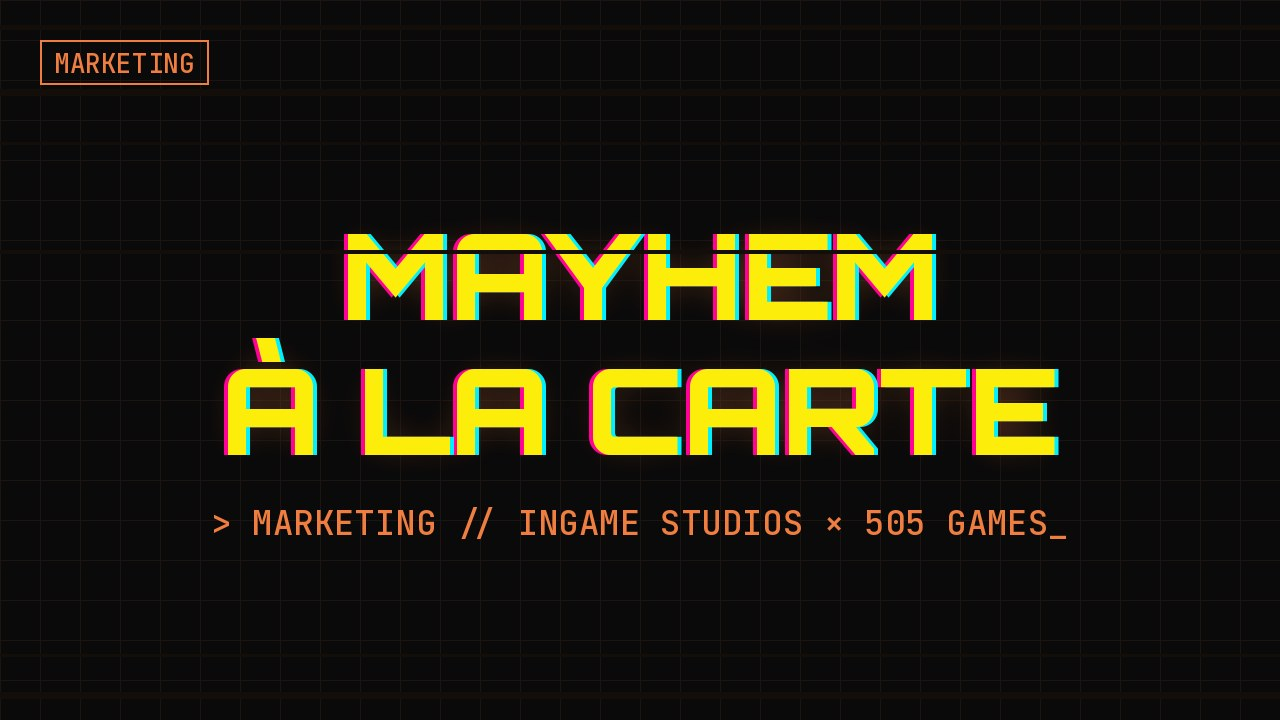
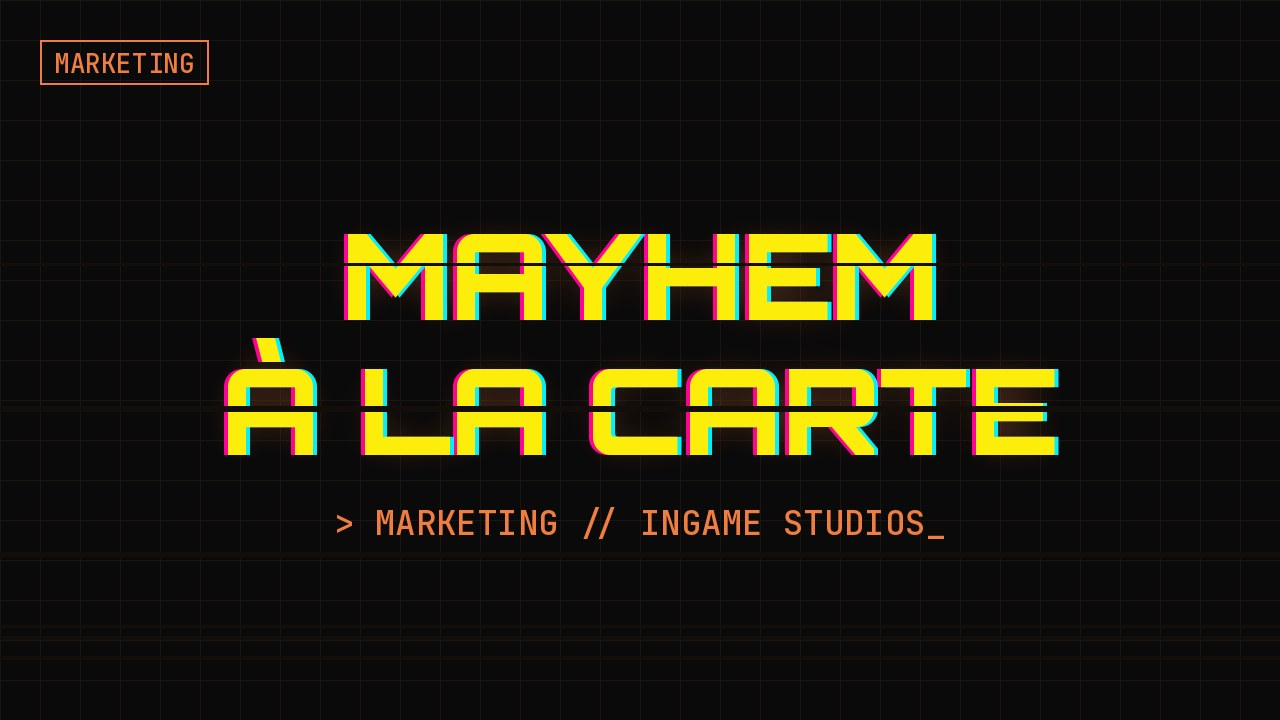
Name Ingame Studios as employer; 505 Games only as publisher

diff --git a/src/pages/About.tsx b/src/pages/About.tsx
@@ -134,7 +134,7 @@ const SECTION_SPACE = 'mb-20 md:mb-28';
 
 /** Hero: one-line value proposition */
 const VALUE_PROP =
-  'Unreal gameplay & multiplayer programmer who now runs game marketing — Crime Boss: Rockay City, the official ModKit, and Mayhem À La Carte with 505 Games.';
+  'Unreal gameplay & multiplayer programmer who now runs game marketing — Crime Boss: Rockay City, the official ModKit, and Mayhem À La Carte at Ingame Studios.';
 
 /** High-signal tech/project chips for hero */
 const HERO_CHIPS = [
@@ -142,18 +142,18 @@ const HERO_CHIPS = [
   'Crime Boss: Rockay City',
   'Multiplayer / EOS',
   'Blueprint & C++',
-  'Game Marketing / 505 Games',
+  'Game Marketing',
   'Unity / Tools',
 ];
 /** Chips that get subtle loop emphasis (priority proof signals) */
-const CHIP_PRIORITY = new Set(['Unreal Engine', 'Crime Boss: Rockay City', 'Multiplayer / EOS', 'Blueprint & C++', 'Game Marketing / 505 Games', 'Unity / Tools']);
+const CHIP_PRIORITY = new Set(['Unreal Engine', 'Crime Boss: Rockay City', 'Multiplayer / EOS', 'Blueprint & C++', 'Game Marketing', 'Unity / Tools']);
 
 /** Career highlight cards: skimmable, bullet-led (matches CV experience) */
 const CAREER_HIGHLIGHTS = [
   {
     title: 'Ingame Studios',
     subtitle: 'Marketing Engineer · Oct 2026 – Present',
-    project: 'Mayhem À La Carte × 505 Games',
+    project: 'Mayhem À La Carte',
     companyUrl: 'https://mayhemalacarte.com/',
     bullets: [
       'Own social media strategy and channels',
@@ -199,7 +199,7 @@ const CAREER_HIGHLIGHTS = [
 
 /** About / typewriter paragraph: CV tagline + filler so the profile box feels full */
 const ABOUT_SUMMARY =
-  'Gameplay Programmer specializing in multiplayer systems and networked gameplay in Unreal Engine, experienced with replication, Join-In-Progress, and Epic Online Services on a shipped commercial title. I also fix the bugs that make you alt-tab to the wiki at 2 a.m. I shipped fixes on Crime Boss: Rockay City at Ingame Studios and built the Modkit so people can add custom bosses and mod Rockay Rumble. Then my Modkit tutorials and livestreams turned into a second job: now I run marketing for Mayhem À La Carte with 505 Games, from the reveal to creators to the website. I used to do sound and editor tools at nerdmonkeys on Unity stuff. I like code that reads clean and multiplayer that does not desync.';
+  'Gameplay Programmer specializing in multiplayer systems and networked gameplay in Unreal Engine, experienced with replication, Join-In-Progress, and Epic Online Services on a shipped commercial title. I also fix the bugs that make you alt-tab to the wiki at 2 a.m. I shipped fixes on Crime Boss: Rockay City at Ingame Studios and built the Modkit so people can add custom bosses and mod Rockay Rumble. Then my Modkit tutorials and livestreams turned into a second job: now I run marketing for Mayhem À La Carte, Ingame’s next game, from the reveal to creators to the website. I used to do sound and editor tools at nerdmonkeys on Unity stuff. I like code that reads clean and multiplayer that does not desync.';
 
 /** Core strengths: 6 categories. Card = minimal teaser; detail panel = in-depth (different content). */
 const CORE_STRENGTHS = [

diff --git a/src/data/projects.ts b/src/data/projects.ts
@@ -35,19 +35,19 @@ export const projects: Project[] = [
     id: 'mayhem-a-la-carte',
     title: 'Mayhem À La Carte',
     description: 'Marketing Engineer for Mayhem À La Carte, Ingame Studios’ next game, published by 505 Games. I own the social media strategy and channels, worked on the reveal campaign, run creator outreach, built mayhemalacarte.com and voiced part of the trailer. Started because my ModKit tutorials and livestreams worked, so the studio moved me into marketing full time.',
-    shortDescription: 'Marketing for Ingame’s next game with 505 Games: reveal, social, creators, website.',
+    shortDescription: 'Marketing for Ingame Studios’ next game: reveal, social, creators, website.',
     thumbnail: '/projects/mayhem-a-la-carte.jpg',
     category: 'Marketing',
     tags: ['Game Marketing', 'Social Media', 'Creator Outreach', 'Web', 'Trailer VO'],
     projectType: 'Professional',
     role: 'Marketing Engineer',
-    company: 'Ingame Studios × 505 Games',
+    company: 'Ingame Studios',
     timeframe: '2026–now',
     featured: true,
     priority: 1.5,
     impact: [
       'Own social media strategy and channels',
-      'Reveal campaign with the publisher',
+      'Reveal campaign',
       'Built mayhemalacarte.com, voiced part of the trailer',
       'Represented Ingame at gamescom 2026 and VGDM #98 Vienna',
     ],

diff --git a/index.html b/index.html
@@ -5,7 +5,7 @@
     <link rel="icon" type="image/svg+xml" href="/vite.svg" />
     <meta name="viewport" content="width=device-width, initial-scale=1.0" />
     <title>Julian Strunz - Gameplay Programmer & Game Marketing</title>
-    <meta name="description" content="Julian Strunz: Unreal Engine gameplay and multiplayer programmer (Crime Boss: Rockay City, official ModKit) and marketing engineer on Mayhem À La Carte with 505 Games." />
+    <meta name="description" content="Julian Strunz: Unreal Engine gameplay and multiplayer programmer (Crime Boss: Rockay City, official ModKit) and marketing engineer at Ingame Studios on Mayhem À La Carte." />
     
     <!-- Fonts -->
     <link rel="preconnect" href="https://fonts.googleapis.com">

diff --git a/src/pages/Home.tsx b/src/pages/Home.tsx
@@ -216,7 +216,6 @@ SECURITY: MAXIMUM
 -------------
 NAME: JULIAN STRUNZ
 ROLE: GAMEPLAY PROGRAMMER // MARKETING ENGINEER
-PUBLISHER LINK: 505 GAMES
 STATUS: ACTIVE
 
 > NEURAL INTERFACE STABILIZED
@@ -452,7 +451,7 @@ const Home = ({ onPlayGame }: HomeProps) => {
               className="text-gray-400 max-w-2xl mx-auto px-4 text-lg font-mono"
             >
               Unreal multiplayer and gameplay on Crime Boss: Rockay City.
-              Now running marketing for Mayhem À La Carte with 505 Games.
+              Now running marketing for Mayhem À La Carte at Ingame Studios.
               I build games, then I get people to play them.
             </motion.p>
 

diff --git a/src/components/TerminalTypewriter.tsx b/src/components/TerminalTypewriter.tsx
@@ -4,7 +4,7 @@ import { motion } from 'framer-motion';
 
 const lines = [
   'Julian Strunz BSc',
-  'Gameplay Programmer & Marketing Engineer — Unreal multiplayer, Mayhem À La Carte (505 Games)',
+  'Gameplay Programmer & Marketing Engineer — Unreal multiplayer, Mayhem À La Carte at Ingame Studios',
   'Skills: C++, C#, Blueprint · Unity, Unreal · Replication, JIP, EOS · Social, creators, livestreams · Git, Perforce, Jira',
 ];
 
